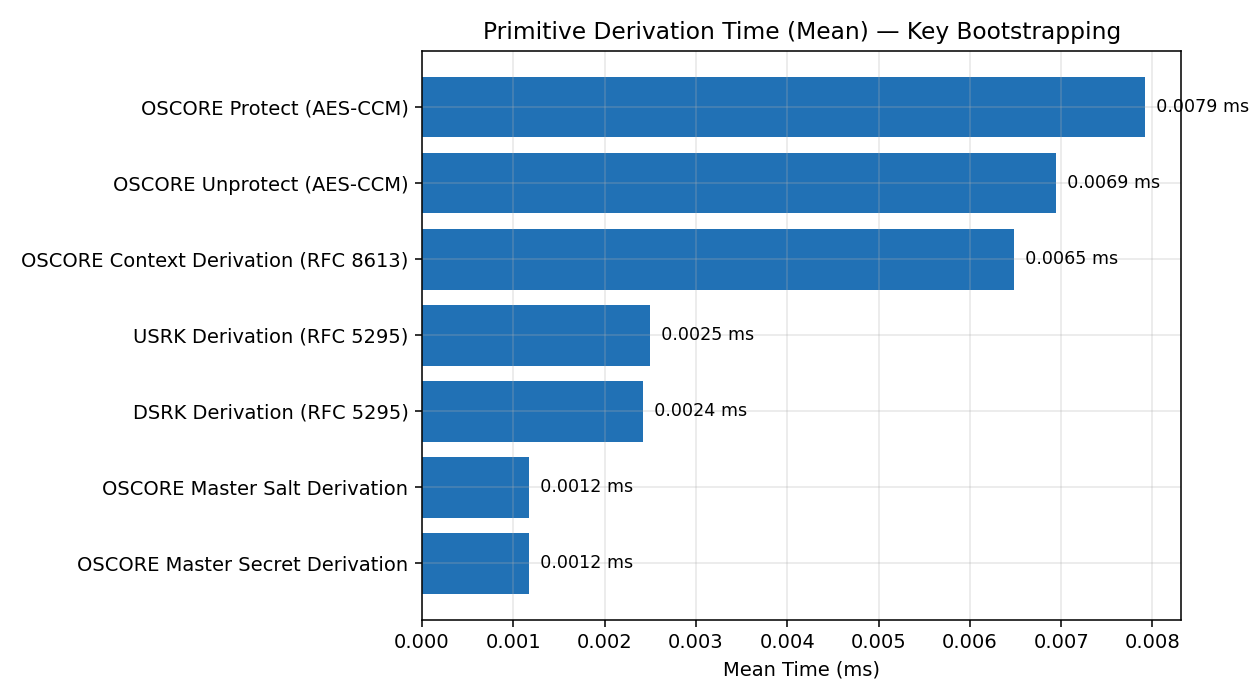
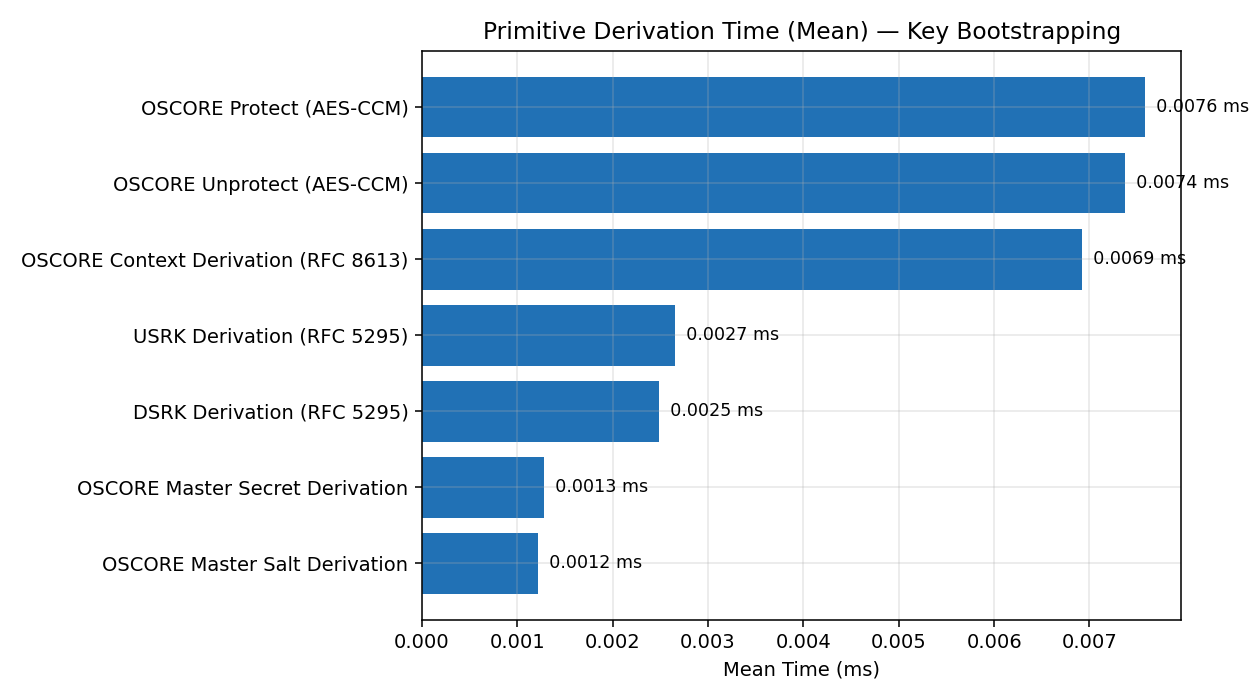
paper/notebook: bootstrap, stability and like-for-like EAP-TLS comparison
Notebook: primitive latencies from crypto-primitives.csv and all
bootstrap data (A1-A3, B1, B2, C, D) from analisys3.md; figures
regenerated.

Paper:
- compare each EAP-EDHOC variant with the EAP-TLS baseline of the same
  security level (Methods 0-3 vs EAP-TLS Classic, proposal vs EAP-TLS
  Hybrid PQC), at 0% and 30% loss
- bootstrap figures updated (0.4183 ms, 194,481 / 106,182 sessions/s)
- high-N medians for methods 0-3 and why they are not ranked

diff --git a/symmetry-rev/paper/manuscript.tex b/symmetry-rev/paper/manuscript.tex
@@ -562,14 +562,14 @@ Verify\_MLDSA44     & 0.059596 & 0.028310 & 0.001013 \\
 \end{figure}
 
 \subsection{End-to-End Latency, Message Size, and Framing}
-Over the live EAP-over-RADIUS path ($100$ iterations per method, no loss), the proposed method completes in $14.733$~ms on average (median $12.015$~ms), against $0.956$--$2.835$~ms for methods 0--3 (medians $0.913$--$1.035$~ms; a few outliers of up to $30$~ms raise their means), $2.895$~ms for EAP-TLS Classic, and $10.066$~ms for EAP-TLS Hybrid PQC. Two costs drive the gap, and neither is computation. The first is fragmentation: the proposal needs $14$ RADIUS round-trips versus $3$ for methods 0--3, and EAP-TLS Classic and Hybrid PQC need $6$ and $28$. The second is durable key rotation: after every run both parties store their rotated one-time keys (write to a temporary file, \texttt{fsync}, atomic rename), and the DN-AAA overwrites and flushes the keys it erases, which adds four \texttt{fsync} and two \texttt{fdatasync} calls per handshake. On the virtual disk of our VM a flush costs about $1.2$--$1.5$~ms, so storage accounts for roughly $7$~ms of the handshake; on server storage with power-loss protection a flush typically takes well under $0.1$~ms.
+Over the live EAP-over-RADIUS path ($100$ iterations per method, no loss), the proposed method completes in $14.733$~ms on average (median $12.015$~ms), against $0.956$--$2.835$~ms for methods 0--3 (medians $0.913$--$1.035$~ms; a few outliers of up to $30$~ms raise their means, and a pooled run of $10{,}000$ handshakes per method in two opposite orders gives medians of $0.987$--$1.033$~ms), $2.895$~ms for EAP-TLS Classic, and $10.066$~ms for EAP-TLS Hybrid PQC. Two costs drive the gap, and neither is computation. The first is fragmentation: the proposal needs $14$ RADIUS round-trips versus $3$ for methods 0--3, and EAP-TLS Classic and Hybrid PQC need $6$ and $28$. The second is durable key rotation: after every run both parties store their rotated one-time keys (write to a temporary file, \texttt{fsync}, atomic rename), and the DN-AAA overwrites and flushes the keys it erases, which adds four \texttt{fsync} and two \texttt{fdatasync} calls per handshake. On the virtual disk of our VM a flush costs about $1.2$--$1.5$~ms, so storage accounts for roughly $7$~ms of the handshake; on server storage with power-loss protection a flush typically takes well under $0.1$~ms.
 
 The message sizes explain this. Classical messages fit in one EAP fragment ($34$--$147$~bytes). In the proposed method, each X-Wing element adds $1.1$--$1.2$~KB and each ML-DSA-44 signature about $2.4$~KB. \texttt{Message1} ($1{,}141$~B: $ct_B$ and the encrypted \texttt{Plaintext1}) now fits within the $1500$-byte MTU, whereas \texttt{Message2} ($4{,}880$~B) and \texttt{Message3} ($4{,}975$~B) exceed it and are split into EAP fragments (RFC~3579, 253-byte attributes)~\cite{RFC3579} and IP fragments; \texttt{Message4} ($1{,}232$~B) fits in one. The handshake totals $12{,}228$~B. The load per direction is balanced: the UE sends $6{,}116$~B (\texttt{Message1}+\texttt{Message3}) and the DN-AAA $6{,}112$~B (\texttt{Message2}+\texttt{Message4}). EAP-TLS Classic totals $2{,}478$~B in $5$ EAP fragments and EAP-TLS Hybrid PQC $25{,}195$~B in $27$, the most of any method. Cross-implementation checks against pyca/cryptography over OpenSSL passed all $11$ tests, with sizes matching the standards (ML-KEM-768 public key $1184$~B, ciphertext $1088$~B; ML-DSA-44 key $1312$~B, signature $2420$~B).
 
-The two panels of Figure~\ref{fig:handshake_computation_grouped} rank the methods differently. In computation, the proposal is the most expensive ($0.985$~ms vs.\ $0.775$~ms for EAP-TLS Hybrid PQC) because it runs more X25519 and ML-KEM-768 operations; both perform the same signatures. End to end, EAP-TLS carries ML-DSA-44 inside an X.509 chain in a TLS record, whereas EAP-EDHOC carries a compact detached CBOR/COSE value: $25{,}195$~B and $28$ round-trips against $12{,}228$~B and $14$ round-trips. The proposal is nevertheless slower end to end ($14.733$ vs.\ $10.066$~ms), because EAP-TLS stores no key material per run; without the estimated $7$~ms of storage flushes it would be the faster of the two. The same crossover appears classically: EAP-TLS Classic and Method~0 have identical compute cost ($0.182$~ms, both Ed25519 and one X25519 exchange; we used an Ed25519 certificate instead of RSA-2048 to isolate this effect), yet EAP-TLS Classic is $2.7\times$ slower end to end in the median ($2.790$ vs.\ $1.035$~ms) due to TLS/X.509 framing and $6$ round-trips. EDHOC's compact encoding, not its primitives, keeps its transport cost below EAP-TLS at every security level; for the proposal, forward secrecy without an ephemeral key is paid for in storage flushes instead.
+The two panels of Figure~\ref{fig:handshake_computation_grouped} rank the methods differently, so we compare each EAP-EDHOC variant with the EAP-TLS baseline at the same security level. \emph{Classical pair} (Methods 0--3 vs.\ EAP-TLS Classic, both Ed25519 and X25519): the computation is equal ($0.152$--$0.182$~ms vs.\ $0.182$~ms; we used an Ed25519 certificate instead of RSA-2048 to isolate this effect), yet EAP-EDHOC sends $8$--$13\times$ fewer bytes ($184$--$296$~B vs.\ $2{,}478$~B), needs half the round-trips ($3$ vs.\ $6$), and is $2.7$--$3.1\times$ faster end to end in the median ($0.913$--$1.035$~ms vs.\ $2.790$~ms). \emph{Hybrid PQC pair} (the proposal vs.\ EAP-TLS Hybrid PQC, both X25519+ML-KEM-768 and ML-DSA-44): the proposal computes more ($0.985$ vs.\ $0.775$~ms) because it runs more X25519 and ML-KEM-768 operations, but EAP-TLS carries ML-DSA-44 inside an X.509 chain in a TLS record whereas EAP-EDHOC carries a compact detached CBOR/COSE value, so the proposal again sends half the bytes and needs half the round-trips ($12{,}228$~B and $14$ vs.\ $25{,}195$~B and $28$). Without loss it is nevertheless slower ($14.733$ vs.\ $10.066$~ms mean, $12.015$ vs.\ $8.447$~ms median), because EAP-TLS stores no key material per run; without the estimated $7$~ms of storage flushes it would be the faster of the two. Across both pairs, EDHOC's compact encoding, not its primitives, keeps its transport cost below EAP-TLS; for the proposal, forward secrecy without an ephemeral key is paid for in storage flushes instead.
 
 \subsection{Behaviour under Packet Loss}
-Figures~\ref{fig:loss_mean} and~\ref{fig:loss_tail} report behaviour under emulated application-level loss with EAP-style retransmission (RTO 40~ms, up to 6 retransmissions per exchange, $120$ trials per cell) for all seven methods. Methods 0--3 keep a $100\%$ success rate up to $20\%$ loss and reach $96.7$--$99.2\%$ at $30\%$. EAP-TLS Classic reaches $100\%$ at $20\%$ loss and $98.3\%$ at $30\%$, and EAP-TLS Hybrid PQC $95.8\%$ and $82.5\%$. The proposal reaches $99.2\%$ at $20\%$ loss (mean $353.9$~ms, $7.9$ retransmissions) and $90.0\%$ at $30\%$ (mean $590.4$~ms, $12.4$ retransmissions), between the two EAP-TLS baselines, in line with its $14$ EAP fragments against their $5$ and $27$. A lost \texttt{Message4} is recovered through the DN-AAA's grace key: in a separate run of $150$ handshakes at $20\%$ loss, one session completed with the retained old key, and all subsequent handshakes succeeded without re-provisioning. Each extra fragment is an independent chance of loss, so latency and retransmissions grow with fragment count. Fragmentation, not computation, is the main scalability concern.
+Figures~\ref{fig:loss_mean} and~\ref{fig:loss_tail} report behaviour under emulated application-level loss with EAP-style retransmission (RTO 40~ms, up to 6 retransmissions per exchange, $120$ trials per cell) for all seven methods. Methods 0--3 keep a $100\%$ success rate up to $20\%$ loss and reach $96.7$--$99.2\%$ at $30\%$. EAP-TLS Classic reaches $100\%$ at $20\%$ loss and $98.3\%$ at $30\%$, and EAP-TLS Hybrid PQC $95.8\%$ and $82.5\%$. The proposal reaches $99.2\%$ at $20\%$ loss (mean $353.9$~ms, $7.9$ retransmissions) and $90.0\%$ at $30\%$ (mean $590.4$~ms, $12.4$ retransmissions), between the two EAP-TLS baselines, in line with its $14$ EAP fragments against their $5$ and $27$. Within each security level EAP-EDHOC is the more loss-tolerant: at $30\%$ loss, Methods 0--3 average $107$--$140$~ms against $279$~ms for EAP-TLS Classic, and the proposal $590$~ms with $90.0\%$ success against $1{,}154$~ms and $82.5\%$ for EAP-TLS Hybrid PQC. From $5\%$ loss on, the retransmissions saved by having half the fragments outweigh the fixed storage cost, and the proposal is faster than EAP-TLS Hybrid PQC ($76.1$ vs.\ $133.5$~ms at $5\%$). A lost \texttt{Message4} is recovered through the DN-AAA's grace key: in a separate run of $150$ handshakes at $20\%$ loss, one session completed with the retained old key, and all subsequent handshakes succeeded without re-provisioning. Each extra fragment is an independent chance of loss, so latency and retransmissions grow with fragment count. Fragmentation, not computation, is the main scalability concern.
 
 \begin{figure}[H]
 \begin{adjustwidth}{-\extralength}{0cm}
@@ -593,7 +593,7 @@ Figures~\ref{fig:loss_mean} and~\ref{fig:loss_tail} report behaviour under emula
 
 \subsection{EMSK Key-Bootstrapping Cost}
 \label{sec:perf-bootstrap}
-Every primitive in the bootstrapping chain is inexpensive (Figure~\ref{fig:bootstrap_cost}a), ranging from $0.0012$~ms (OSCORE Master Secret/Salt derivation) to $0.0079$~ms (OSCORE Protect, AES-CCM). Of the loss-free end-to-end bootstrap latency of $0.4142$~ms (Figure~\ref{fig:bootstrap_cost}b), only $0.0277$~ms is spent on the four derivation steps (USRK+DSRK on the UE and AAA sides, OSCORE context on the UE and AS sides); the remaining $0.3865$~ms is network overhead on the two new legs, AAA$\to$AS (DSRK transport) and UE$\to$AS (first OSCORE contact). The single-core throughput bound (Figure~\ref{fig:bootstrap_scale}a) is $203{,}455$ sessions/s ($4.915$~\textmu s/session) on the AAA side and $113{,}289$ sessions/s ($8.827$~\textmu s/session) on the AS side, so bootstrapping does not shift the bottleneck away from the AAA server. At $0.41$~ms, bootstrapping is far cheaper than the handshake ($14.733$~ms) and far below the $2$--$10$~s typically reported for a manual OAuth~2.0 authorization-code login, at least $4{,}800\times$ faster than the $2$~s lower bound (Figure~\ref{fig:bootstrap_scale}b).
+Every primitive in the bootstrapping chain is inexpensive (Figure~\ref{fig:bootstrap_cost}a), ranging from $0.0012$~ms (OSCORE Master Salt derivation) to $0.0076$~ms (OSCORE Protect, AES-CCM). Of the loss-free end-to-end bootstrap latency of $0.4183$~ms (Figure~\ref{fig:bootstrap_cost}b), only $0.0337$~ms is spent on the four derivation steps (USRK+DSRK on the UE and AAA sides, OSCORE context on the UE and AS sides); the remaining $0.3846$~ms is network overhead on the two new legs, AAA$\to$AS (DSRK transport) and UE$\to$AS (first OSCORE contact). The single-core throughput bound (Figure~\ref{fig:bootstrap_scale}a) is $194{,}481$ sessions/s ($5.142$~\textmu s/session) on the AAA side and $106{,}182$ sessions/s ($9.418$~\textmu s/session) on the AS side, so bootstrapping does not shift the bottleneck away from the AAA server. At $0.42$~ms ($2.8\%$ of the handshake), bootstrapping is far cheaper than the handshake ($14.733$~ms) and far below the $2$--$10$~s typically reported for a manual OAuth~2.0 authorization-code login, at least $4{,}700\times$ faster than the $2$~s lower bound (Figure~\ref{fig:bootstrap_scale}b).
 
 \begin{figure}[H]
 \centering
@@ -623,7 +623,7 @@ Two implementation notes apply. The label \texttt{"dsrk@ietf.org"} is the reserv
 
 \textbf{Mitigating fragmentation.} Three mitigations require no protocol change: (i) raising the EAP fragment size and RADIUS attribute budget beyond the RFC~3579 253-byte default where the operator controls both endpoints; (ii) raising the path MTU on the SMF--UPF--DN-AAA segment, which never crosses the public Internet; and (iii) adopting more compact PQC parameter sets or signatures as they mature, which would shrink \texttt{Message2} and \texttt{Message3}. None of these affect the authentication logic verified in Section~\ref{sec:formalverif}.
 
-\textbf{Threats to validity.} (1) All components share one VM over loopback, so the network figures are a lower bound; a smaller path MTU or higher RTT in a distributed deployment would make fragmentation more pronounced. (2) Loss is emulated at the application layer rather than with \texttt{netem}, so the relative sensitivity of each method generalises better than the absolute milliseconds. (3) $100$ iterations and $120$ trials per cell separate methods that differ by an order of magnitude but are modest for tail estimates among methods 0--3, whose differences are tens of microseconds (Table~\ref{tab:primitive}). (4) The formal analysis is symbolic, and the quantum adversary is captured by a discrete-log oracle rather than a computational model; a computational proof is future work. (5) Trust in the AAA$\to$AS DSRK channel is a co-location/mTLS assumption analogous to ERP~\cite{RFC6696}, outside the ProVerif model. (6) Forward secrecy now rests on the rotation completing and on the erasure of the old secret keys. If \texttt{Message4} is lost, the UE keeps its old key while the DN-AAA has rotated; keeping the old key for recovery delays forward secrecy for that run, whereas discarding it requires re-provisioning. The models abstract a completed rotation and do not cover this recovery path. Likewise, if the \emph{current} one-time keys of both parties leak before a run, a passive adversary can read that run, since no ephemeral secret remains; security returns from the next run because the rotated secret keys never leave the devices. (7) Re-authentication and handover, including the fate of DSRK/OSCORE state at the AS, are not evaluated.
+\textbf{Threats to validity.} (1) All components share one VM over loopback, so the network figures are a lower bound; a smaller path MTU or higher RTT in a distributed deployment would make fragmentation more pronounced. (2) Loss is emulated at the application layer rather than with \texttt{netem}, so the relative sensitivity of each method generalises better than the absolute milliseconds. (3) $100$ iterations and $120$ trials per cell separate methods that differ by an order of magnitude but are modest for tail estimates among methods 0--3, whose differences are tens of microseconds (Table~\ref{tab:primitive}). A pooled $10{,}000$-handshake run per method narrows their median confidence intervals to about $\pm3$~\textmu s, but the spread between the fastest and slowest of them is only $45$~\textmu s and their ranking does not follow their compute cost, so we do not rank methods 0--3 against each other. (4) The formal analysis is symbolic, and the quantum adversary is captured by a discrete-log oracle rather than a computational model; a computational proof is future work. (5) Trust in the AAA$\to$AS DSRK channel is a co-location/mTLS assumption analogous to ERP~\cite{RFC6696}, outside the ProVerif model. (6) Forward secrecy now rests on the rotation completing and on the erasure of the old secret keys. If \texttt{Message4} is lost, the UE keeps its old key while the DN-AAA has rotated; keeping the old key for recovery delays forward secrecy for that run, whereas discarding it requires re-provisioning. The models abstract a completed rotation and do not cover this recovery path. Likewise, if the \emph{current} one-time keys of both parties leak before a run, a passive adversary can read that run, since no ephemeral secret remains; security returns from the next run because the rotated secret keys never leave the devices. (7) Re-authentication and handover, including the fate of DSRK/OSCORE state at the AS, are not evaluated.
 
 %%%%%%%%%%%%%%%%%%%%%%%%%%%%%%%%%%%%%%%%%%
 \section{Conclusions}
